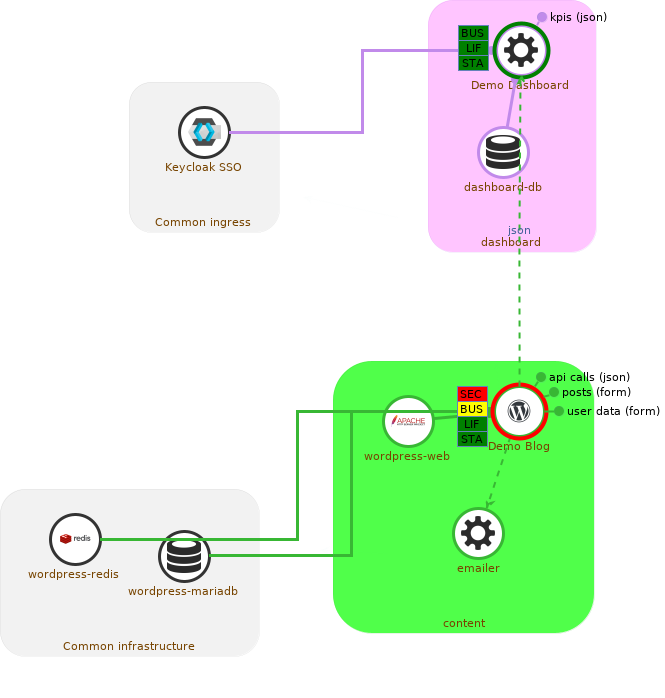
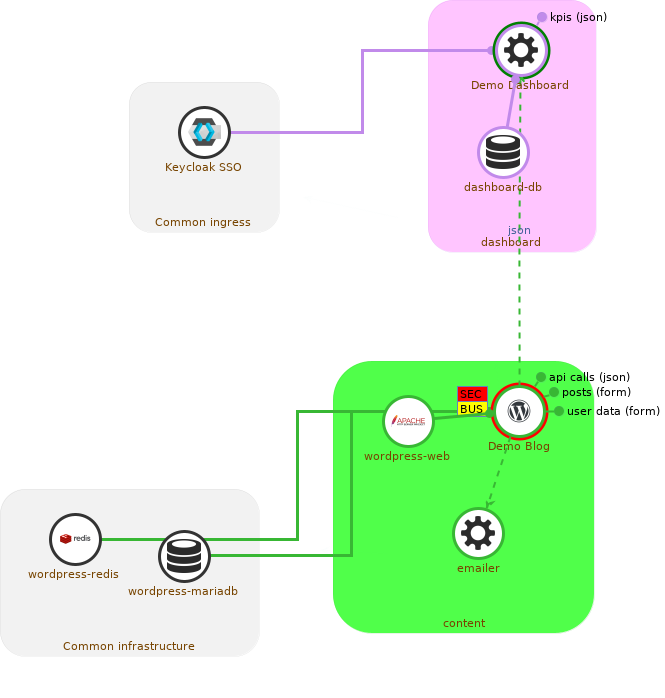
fixed layer issue

diff --git a/src/main/java/de/bonndan/nivio/output/jgraphx/JGraphXRenderer.java b/src/main/java/de/bonndan/nivio/output/jgraphx/JGraphXRenderer.java
@@ -90,7 +90,9 @@ public class JGraphXRenderer implements Renderer {
 
             addVirtualGroupNodes();
 
-            //TODO draw vertexes above edges
+            //draw vertexes above edges (group nodes must be moved to front)
+            Object[] cells = groupNodes.values().stream().filter(o -> ((mxCell) o).isVertex()).toArray();
+            graph.orderCells(false, cells);
         }
 
         BufferedImage image = mxCellRenderer.createBufferedImage(graph, null, 1, Color.WHITE, true, null);
@@ -529,21 +531,13 @@ public class JGraphXRenderer implements Renderer {
 
     private String getBaseStyle(Service service) {
         Icon type = Icons.getIcon(service);
-
-        Hashtable<String, Object> style = new Hashtable<String, Object>();
-
         if (stylesheet.getStyles().containsKey(type.getUrl().toString())) {
             return type.getUrl().toString();
         }
 
-
-        // standard shape is rounded
+        Hashtable<String, Object> style = new Hashtable<String, Object>();
         style.put(mxConstants.STYLE_SHAPE, mxCircularImageShape.NAME);
         style.put(mxConstants.STYLE_STROKEWIDTH, 3);
-
-        //style.put(mxConstants.STYLE_LABEL_BACKGROUNDCOLOR, "#666");
-        //style.put(mxConstants.STYLE_FONTCOLOR, "white");
-
         style.put(mxConstants.STYLE_FILLCOLOR, "white");
         style.put(mxConstants.STYLE_IMAGE, type.getUrl());
         style.put(mxConstants.STYLE_VERTICAL_ALIGN, mxConstants.ALIGN_TOP); //decreases space between label and img
